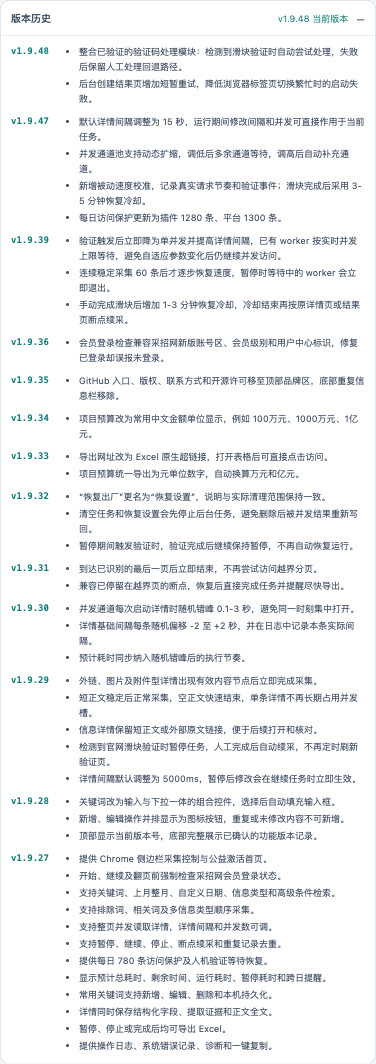
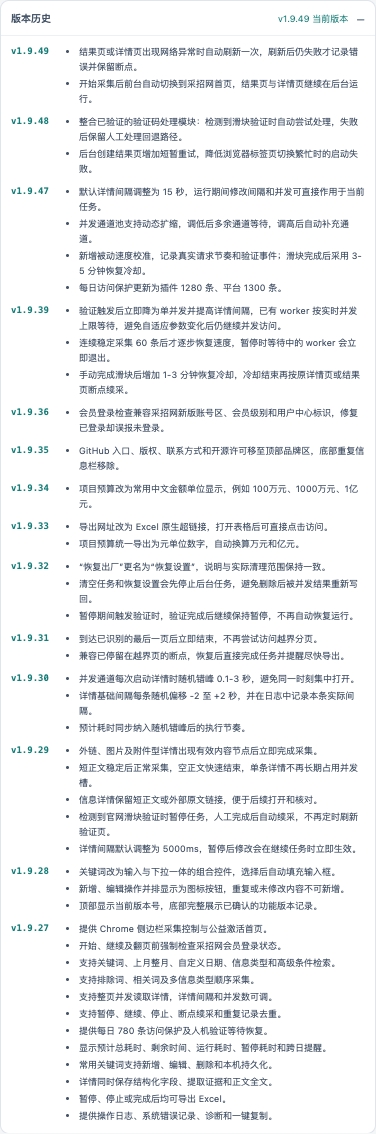
feat: v1.9.49 增加网络重试与首页前台

diff --git a/content.js b/content.js
@@ -41,6 +41,7 @@ const RESULT_LOAD_TIMEOUT = 45000;
 const RESULT_STABLE_FOR = 800;
 const DETAIL_LOAD_TIMEOUT = 30000;
 const DETAIL_STABLE_FOR = 3000;
+const NETWORK_RETRY_STORAGE_KEY = 'bidcenterCollectorNetworkRetry';
 const sleep = (ms) => new Promise((resolve) => setTimeout(resolve, ms));
 const text = (element) => element?.innerText?.replace(/\s+/g, ' ').trim() || '';
 const clean = (value) => String(value ?? '').replace(/\s+/g, ' ').trim();
@@ -396,9 +397,48 @@ async function taskState() {
   return task;
 }
 
+function isTransientNetworkError(error) {
+  const message = `${error?.name || ''} ${error?.message || ''} ${String(error || '')}`;
+  return /Failed to fetch|fetch failed|NetworkError|Network request failed|Load failed|net::ERR_|ERR_(?:CONNECTION|NETWORK|INTERNET|NAME|TIMED_OUT)|网络错误|网络请求失败|网络连接.*(?:中断|失败)|连接已重置|连接超时/i.test(message);
+}
+
+function networkErrorVisible() {
+  const body = document.body?.innerText || '';
+  return /ERR_[A-Z_]+|无法访问此网站|网页无法打开|网络错误|网络请求失败|网络连接.*(?:中断|失败)|连接已重置|连接超时/i
+    .test(`${document.title || ''} ${body.slice(0, 1600)}`);
+}
+
+function clearNetworkRetry() {
+  try {
+    const hadRetry = Boolean(sessionStorage.getItem(NETWORK_RETRY_STORAGE_KEY));
+    sessionStorage.removeItem(NETWORK_RETRY_STORAGE_KEY);
+    return hadRetry;
+  } catch (_) { return false; }
+}
+
+async function retryCurrentPageOnce(error, context) {
+  const state = await taskState();
+  if (!['searching', 'filtering', 'running'].includes(state.status)) return false;
+  const retryUrl = location.href;
+  let previous = null;
+  try { previous = JSON.parse(sessionStorage.getItem(NETWORK_RETRY_STORAGE_KEY) || 'null'); } catch (_) { /* ignore */ }
+  if (previous?.url === retryUrl && Number(previous.count) >= 1) return false;
+  try { sessionStorage.setItem(NETWORK_RETRY_STORAGE_KEY, JSON.stringify({ url: retryUrl, count: 1 })); } catch (_) { /* ignore */ }
+  const message = error?.message || String(error || '页面加载失败');
+  await saveTask({ networkRetryUrl: retryUrl, networkRetryCount: 1, error: '' });
+  addLog('warn', '网络异常，自动刷新一次', `${context}：${message}；${retryUrl}`);
+  if (/#\/des\/customDesSearch\/\d+/i.test(location.hash)) {
+    await chrome.runtime.sendMessage({ type: 'DETAIL_PAGE_RETRYING', error: message }).catch(() => undefined);
+  }
+  await sleep(800);
+  location.reload();
+  return true;
+}
+
 async function recordContentError(error, context) {
   const state = await taskState();
   const message = error?.message || String(error || '未知错误');
+  if (isTransientNetworkError(error) && await retryCurrentPageOnce(error, context)) return state;
   const errorDetails = {
     time: new Date().toISOString(), message, stack: error?.stack || '',
     url: location.href, context, source: 'content'
@@ -487,6 +527,7 @@ async function waitForStableResults({ differentFrom = '', expectedPage = 0 } = {
   let signature = '';
   let stableSince = 0;
   while (Date.now() - startedAt < RESULT_LOAD_TIMEOUT) {
+    if (networkErrorVisible()) return [];
     const entries = listEntries();
     const current = resultSignature(entries);
     const pageReady = !expectedPage || pageNumber() === expectedPage;
@@ -1235,10 +1276,16 @@ async function processResults() {
         await waitAndReloadAfterVerification();
         return;
       }
-      const error = '搜索结果加载超时，未检测到可采集的详情链接。';
+      const error = state.networkRetryCount
+        ? '搜索结果自动刷新一次后仍加载失败，未检测到可采集的详情链接。'
+        : '搜索结果加载超时，未检测到可采集的详情链接。';
+      if (await retryCurrentPageOnce(new Error(error), '结果页加载')) return;
       await saveTask({ status: 'error', error, pausedAt: state.pausedAt || new Date().toISOString() });
       addLog('error', '结果页加载失败', error);
       return;
+    }
+    if (clearNetworkRetry()) {
+      state = await saveTask({ networkRetryUrl: '', networkRetryCount: 0 });
     }
     const currentUrl = location.href;
     const currentPage = pageNumber();
@@ -1328,6 +1375,7 @@ async function processResults() {
     const state = await taskState();
     if (['stopped', 'paused', 'daily_limit'].includes(state.status)) return;
     const message = error.message || '页面采集发生未知错误。';
+    if (isTransientNetworkError(error) && await retryCurrentPageOnce(error, '结果页处理')) return;
     const errorDetails = {
       time: new Date().toISOString(), message, stack: error.stack || '',
       url: location.href, context: `结果页处理；关键词=${state.keyword || ''}`, source: 'content'
@@ -1355,7 +1403,8 @@ chrome.runtime.onMessage.addListener((message, _sender, sendResponse) => {
     return true;
   }
   if (message.type === 'SCRAPE_DETAIL') {
-    waitForDetailReady().then((ready) => {
+    waitForDetailReady().then(async (ready) => {
+      if (ready && clearNetworkRetry()) await saveTask({ networkRetryUrl: '', networkRetryCount: 0 });
       sendResponse(ready ? { ready: true, record: scrapeDetail() } : { ready: false });
     });
     return true;
@@ -1404,7 +1453,10 @@ chrome.runtime.onMessage.addListener((message, _sender, sendResponse) => {
   }
   if (/#\/des\/customDesSearch\/\d+/i.test(location.hash)) {
     const ready = await waitForDetailReady();
-    if (ready) await chrome.runtime.sendMessage({ type: 'DETAIL_PAGE_READY', record: scrapeDetail() });
+    if (ready) {
+      if (clearNetworkRetry()) await saveTask({ networkRetryUrl: '', networkRetryCount: 0 });
+      await chrome.runtime.sendMessage({ type: 'DETAIL_PAGE_READY', record: scrapeDetail() });
+    }
     else await chrome.runtime.sendMessage({ type: 'DETAIL_PAGE_FAILED', error: '详情页未出现可采集内容。' });
     return;
   }

diff --git a/background.js b/background.js
@@ -1,4 +1,5 @@
 const DETAIL_TIMEOUT = 45000;
+const BIDCENTER_HOME_URL = 'https://www.bidcenter.com.cn/';
 const DETAIL_STAGGER_MIN_MS = 100;
 const DETAIL_STAGGER_MAX_MS = 3000;
 const DETAIL_INTERVAL_JITTER_MIN_MS = -2000;
@@ -118,6 +119,21 @@ async function waitForTabComplete(tabId, timeoutMs = 20000) {
     };
     chrome.tabs.onUpdated.addListener(listener);
   });
+}
+
+async function focusBidcenterHomepage() {
+  const tabs = await chrome.tabs.query({ currentWindow: true });
+  const homeTab = tabs.find((tab) => {
+    try {
+      const url = new URL(tab.url || tab.pendingUrl || '');
+      return url.hostname === 'www.bidcenter.com.cn' && url.pathname === '/';
+    } catch (_) { return false; }
+  });
+  if (homeTab?.id) {
+    await chrome.tabs.update(homeTab.id, { active: true });
+    return homeTab;
+  }
+  return chrome.tabs.create({ url: BIDCENTER_HOME_URL, active: true });
 }
 
 async function memberLoginStatus({ preferredTabId = 0, allowProbe = true } = {}) {
@@ -347,6 +363,7 @@ async function startSilentSearch(keyword, rawSettings = {}) {
     typeFilterApplied: false, typeFilterPending: '', filterStage: '',
     timeFilterMode: settings.timeFilterMode, timeRangeStart: timeRange.start, timeRangeEnd: timeRange.end,
     timeFilterApplied: false, listUrl: url, awaitingSignature: '', error: '',
+    networkRetryUrl: '', networkRetryCount: 0,
     verificationUntil: 0, verificationMode: '', verificationRiskType: '', verificationTabIds: [], verificationUrl: '',
     verificationResumeStatus: '',
     advancedFilters: settings.advancedFilters, excludeWords: settings.excludeWords,
@@ -366,6 +383,12 @@ async function startSilentSearch(keyword, rawSettings = {}) {
   }
   await saveTask({ listTabId: tab.id });
   await log('info', '已创建后台结果页', url);
+  try {
+    const homeTab = await focusBidcenterHomepage();
+    await log('info', '前台已切换到采招网首页', homeTab.url || BIDCENTER_HOME_URL);
+  } catch (error) {
+    await log('warn', '无法自动切换到采招网首页', error.message || String(error));
+  }
   return { started: true };
 }
 
@@ -506,10 +529,42 @@ function originalVerificationTarget(state = {}, pendingUrl = '') {
   return /(?:\/alivalidate|captcha|verify)/i.test(candidate) ? (state.listUrl || '') : candidate;
 }
 
+async function detailTabHasNetworkError(tabId) {
+  const tab = await chrome.tabs.get(tabId).catch(() => null);
+  if (!tab) return false;
+  if (tab.status === 'loading' || /^chrome-error:/i.test(tab.url || '')) return true;
+  try {
+    const [execution] = await chrome.scripting.executeScript({
+      target: { tabId },
+      func: () => ({
+        title: document.title || '',
+        body: (document.body?.innerText || '').slice(0, 1200)
+      })
+    });
+    return /ERR_[A-Z_]+|无法访问此网站|网页无法打开|网络错误|网络请求失败|网络连接.*(?:中断|失败)|连接已重置|连接超时/i
+      .test(`${execution?.result?.title || ''} ${execution?.result?.body || ''}`);
+  } catch (error) {
+    return /chrome-error|Cannot access contents|无法访问页面内容/i.test(error.message || '');
+  }
+}
+
 function armDetailTimeout(tabId, pending) {
   clearTimeout(pending.timer);
   pending.timer = setTimeout(async () => {
     if (activeDetailTabs.get(tabId) !== pending) return;
+    const networkError = (pending.networkReloads || 0) < 1 && await detailTabHasNetworkError(tabId);
+    if (activeDetailTabs.get(tabId) !== pending) return;
+    if (networkError) {
+      pending.networkReloads = 1;
+      await log('warn', '详情页网络异常，自动刷新一次', pending.title || pending.url);
+      try {
+        await chrome.tabs.reload(tabId);
+        armDetailTimeout(tabId, pending);
+        return;
+      } catch (error) {
+        await log('warn', '详情页自动刷新失败', error.message || String(error));
+      }
+    }
     activeDetailTabs.delete(tabId);
     await clearVerification(tabId);
     chrome.tabs.remove(tabId).catch(() => undefined);
@@ -519,7 +574,7 @@ function armDetailTimeout(tabId, pending) {
 
 function waitForDetail(tabId, url, title) {
   return new Promise((resolve, reject) => {
-    const pending = { resolve, reject, timer: 0, url, title };
+    const pending = { resolve, reject, timer: 0, url, title, networkReloads: 0 };
     activeDetailTabs.set(tabId, pending);
     armDetailTimeout(tabId, pending);
   });
@@ -876,6 +931,16 @@ chrome.runtime.onMessage.addListener((message, sender, sendResponse) => {
   if (message.type === 'DETAIL_PAGE_FAILED' && sender.tab?.id) {
     finishDetail(sender.tab.id, null, message.error || '详情正文未加载。').catch(() => undefined);
     sendResponse({ ok: true });
+    return undefined;
+  }
+  if (message.type === 'DETAIL_PAGE_RETRYING' && sender.tab?.id) {
+    const pending = activeDetailTabs.get(sender.tab.id);
+    if (pending) {
+      pending.networkReloads = 1;
+      armDetailTimeout(sender.tab.id, pending);
+      log('warn', '详情页网络异常，自动刷新一次', `${pending.title || pending.url}；${message.error || ''}`).catch(() => undefined);
+    }
+    sendResponse({ ok: Boolean(pending) });
     return undefined;
   }
   if (message.type === 'HUMAN_VERIFICATION') {

diff --git a/sidepanel.html b/sidepanel.html
@@ -13,7 +13,7 @@
           <img class="activation-logo" src="logo.svg" alt="采招网采集助手 logo">
           <div>
             <div class="brand-kicker">BIDCENTER / COLLECTOR</div>
-            <strong class="brand-title">采招网采集助手 <span class="version-badge" data-app-version>v1.9.48</span></strong>
+            <strong class="brand-title">采招网采集助手 <span class="version-badge" data-app-version>v1.9.49</span></strong>
           </div>
         </header>
 
@@ -54,7 +54,7 @@
       <header class="topbar">
         <img class="brand-logo" src="logo.svg" alt="采招网采集助手 logo">
         <div class="brand-copy">
-          <h1 class="brand-title">采招网采集助手 <span class="version-badge" data-app-version>v1.9.48</span></h1>
+          <h1 class="brand-title">采招网采集助手 <span class="version-badge" data-app-version>v1.9.49</span></h1>
           <div class="topbar-meta">
             <a class="project-link" href="https://github.com/HachikoJ/BidCenter-Collector" target="_blank" rel="noopener noreferrer" title="访问 GitHub 公开项目">GitHub 项目</a>
             <span>© 2026 Wilson</span>
@@ -209,8 +209,15 @@
       </section>
 
       <details class="version-history">
-        <summary><span>版本历史</span><small>v1.9.48 当前版本</small></summary>
+        <summary><span>版本历史</span><small>v1.9.49 当前版本</small></summary>
         <div class="version-history-list">
+          <article>
+            <strong>v1.9.49</strong>
+            <ul>
+              <li>结果页或详情页出现网络异常时自动刷新一次，刷新后仍失败才记录错误并保留断点。</li>
+              <li>开始采集后前台自动切换到采招网首页，结果页与详情页继续在后台运行。</li>
+            </ul>
+          </article>
           <article>
             <strong>v1.9.48</strong>
             <ul>

diff --git a/README.md b/README.md
@@ -163,6 +163,12 @@ docs/screenshots/      GitHub 产品截图
 
 ## 更新记录
 
+### 2026-08-16 · v1.9.49
+
+- 结果页或详情页出现网络异常时自动刷新一次，刷新后仍失败才记录错误并保留断点。
+- 详情页仅在检测到加载中断、浏览器错误页或明确网络错误时自动刷新，正常短内容和无内容页面不额外重试。
+- 开始采集后前台自动切换到当前窗口的采招网首页，结果页和详情页继续在后台运行。
+
 ### 2026-08-16 · v1.9.48
 
 - 整合已验证的验证码处理模块：检测到滑块验证时自动尝试处理，失败后保留人工处理回退路径。
